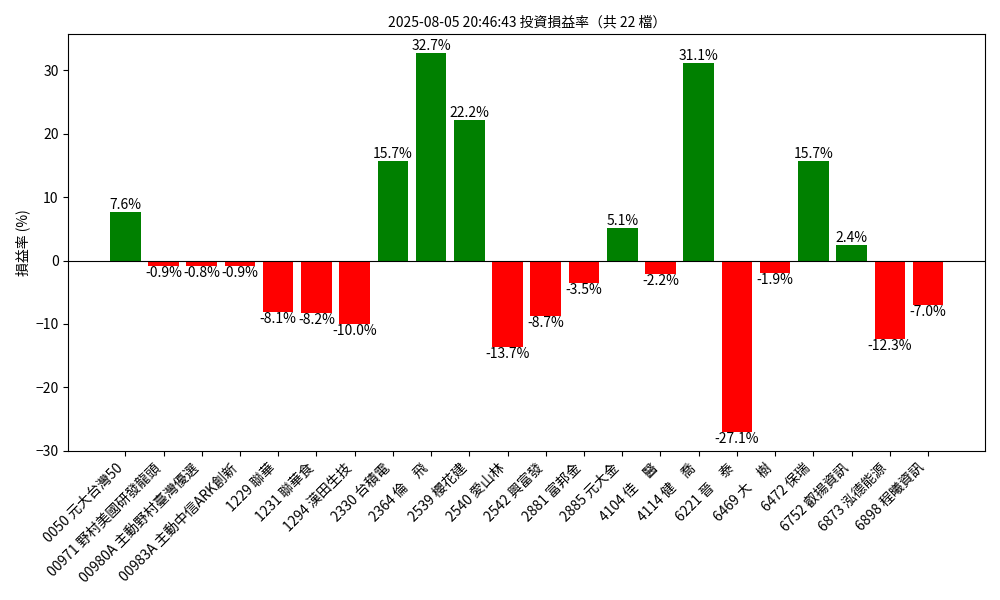
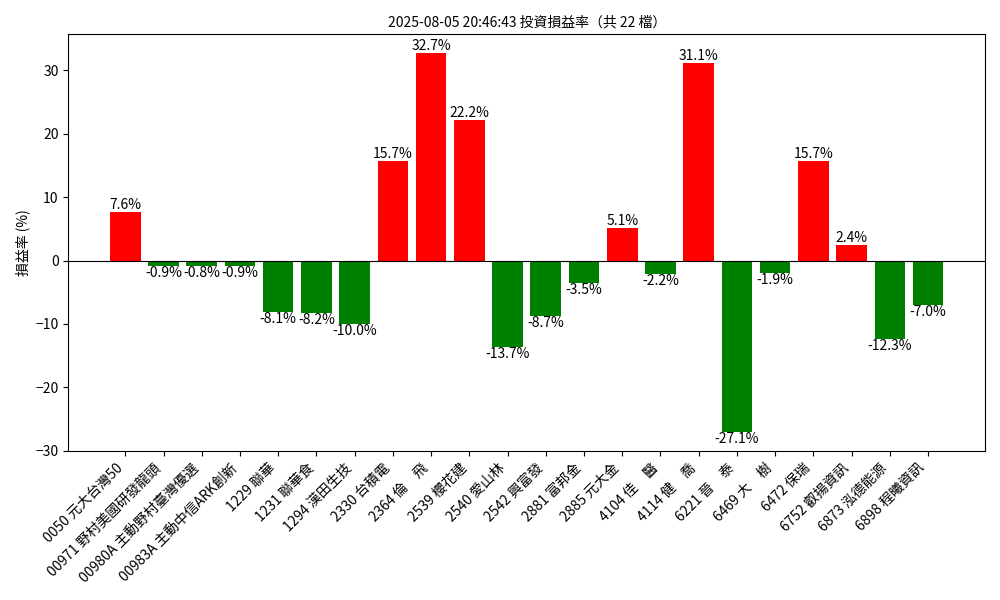
Auto-update report 2025-08-05 13:27:23

Changed region(s): [[0.093, 0.09, 0.961, 0.72]]

diff --git a/docs/投資損益分析報告.html b/docs/投資損益分析報告.html
@@ -110,7 +110,7 @@
   資料日期：2025-08-05 20:46:43
 </p>
 <p style="text-align:center; color:#666; font-size:14px; margin-top:-10px; margin-bottom:30px;">
-  程式執行時間：2025-08-05 21:01:33
+  程式執行時間：2025-08-05 21:27:22
 </p>
 <div class="cards">
   <div class="card">

diff --git a/docs/investment_report.md b/docs/investment_report.md
@@ -1,6 +1,6 @@
 # 投資損益報告
 
-📅 資料日期：2025-08-05 20:46:43　🕒 產生時間：2025-08-05 21:01:33
+📅 資料日期：2025-08-05 20:46:43　🕒 產生時間：2025-08-05 21:27:22
 
 ## 總覽
 - 💰 總投資金額：525,548 元
@@ -22,25 +22,25 @@
 
 | 商品名稱 | 股數 | 成本價 | 投資成本 | 帳面收入 | 損益 | 損益率 | 現價 | 市值 |
 |----------|------|--------|------------|------------|--------|----------|--------|------------|
-| 0050 元大台灣50 | 332.0 | 47.52 | 15,788 元 | 16,985 元 | 1,197 元 | 7.60% | 51.45 | 17,081 元 |
-| 00971 野村美國研發龍頭 | 200.0 | 14.78 | 2,958 元 | 2,932 元 | -26 元 | -0.90% | 14.77 | 2,954 元 |
-| 00980A 主動野村臺灣優選 | 250.0 | 12.16 | 3,042 元 | 3,017 元 | -25 元 | -0.80% | 12.16 | 3,040 元 |
-| 00983A 主動中信ARK創新 | 280.0 | 11.03 | 3,090 元 | 3,062 元 | -28 元 | -0.90% | 11.02 | 3,086 元 |
-| 1229 聯華 | 58.0 | 49.64 | 2,881 元 | 2,648 元 | -233 元 | -8.10% | 46.15 | 2,677 元 |
-| 1231 聯華食 | 33.0 | 155.09 | 5,121 元 | 4,699 元 | -422 元 | -8.20% | 144.0 | 4,752 元 |
-| 1294 漢田生技 | 31.0 | 85.45 | 2,651 元 | 2,387 元 | -264 元 | -10.00% | 77.9 | 2,415 元 |
-| 2330 台積電 | 120.0 | 988.63 | 118,735 元 | 137,342 元 | 18,607 元 | 15.70% | 1150.0 | 138,000 元 |
-| 2364 倫　飛 | 40.0 | 79.6 | 3,186 元 | 4,228 元 | 1,042 元 | 32.70% | 106.5 | 4,260 元 |
-| 2539 櫻花建 | 3652.0 | 54.35 | 198,650 元 | 242,767 元 | 44,117 元 | 22.20% | 66.8 | 243,954 元 |
-| 2540 愛山林 | 661.0 | 91.45 | 60,493 元 | 52,176 元 | -8,317 元 | -13.70% | 79.5 | 52,550 元 |
-| 2542 興富發 | 65.0 | 45.49 | 2,959 元 | 2,702 元 | -257 元 | -8.70% | 42.0 | 2,730 元 |
-| 2881 富邦金 | 485.0 | 86.58 | 42,026 元 | 40,562 元 | -1,464 元 | -3.50% | 84.0 | 40,740 元 |
-| 2885 元大金 | 945.0 | 30.67 | 29,006 元 | 30,471 元 | 1,465 元 | 5.10% | 32.4 | 30,618 元 |
-| 4104 佳　醫 | 70.0 | 86.6 | 6,067 元 | 5,934 元 | -133 元 | -2.20% | 85.3 | 5,971 元 |
-| 4114 健　喬 | 183.0 | 29.09 | 5,328 元 | 6,985 元 | 1,657 元 | 31.10% | 38.5 | 7,046 元 |
-| 6221 晉　泰 | 46.0 | 65.89 | 3,033 元 | 2,211 元 | -822 元 | -27.10% | 48.65 | 2,238 元 |
-| 6469 大　樹 | 36.0 | 165.5 | 5,962 元 | 5,847 元 | -115 元 | -1.90% | 164.0 | 5,904 元 |
-| 6472 保瑞 | 9.0 | 603.11 | 5,433 元 | 6,287 元 | 854 元 | 15.70% | 705.0 | 6,345 元 |
-| 6752 叡揚資訊 | 22.0 | 144.73 | 3,187 元 | 3,262 元 | 75 元 | 2.40% | 150.5 | 3,311 元 |
-| 6873 泓德能源 | 13.0 | 212.92 | 2,770 元 | 2,430 元 | -340 元 | -12.30% | 189.0 | 2,457 元 |
-| 6898 程曦資訊 | 25.0 | 126.48 | 3,182 元 | 2,959 元 | -223 元 | -7.00% | 119.5 | 2,988 元 |
+| 0050 元大台灣50 | 332.0 | 47.52 | 15,788 元 | 16,985 元 | <span style='color:green'>1,197 元</span> | <span style='color:green'>7.60%</span> | 51.45 | 17,081 元 |
+| 00971 野村美國研發龍頭 | 200.0 | 14.78 | 2,958 元 | 2,932 元 | <span style='color:red'>-26 元</span> | <span style='color:red'>-0.90%</span> | 14.77 | 2,954 元 |
+| 00980A 主動野村臺灣優選 | 250.0 | 12.16 | 3,042 元 | 3,017 元 | <span style='color:red'>-25 元</span> | <span style='color:red'>-0.80%</span> | 12.16 | 3,040 元 |
+| 00983A 主動中信ARK創新 | 280.0 | 11.03 | 3,090 元 | 3,062 元 | <span style='color:red'>-28 元</span> | <span style='color:red'>-0.90%</span> | 11.02 | 3,086 元 |
+| 1229 聯華 | 58.0 | 49.64 | 2,881 元 | 2,648 元 | <span style='color:red'>-233 元</span> | <span style='color:red'>-8.10%</span> | 46.15 | 2,677 元 |
+| 1231 聯華食 | 33.0 | 155.09 | 5,121 元 | 4,699 元 | <span style='color:red'>-422 元</span> | <span style='color:red'>-8.20%</span> | 144.0 | 4,752 元 |
+| 1294 漢田生技 | 31.0 | 85.45 | 2,651 元 | 2,387 元 | <span style='color:red'>-264 元</span> | <span style='color:red'>-10.00%</span> | 77.9 | 2,415 元 |
+| 2330 台積電 | 120.0 | 988.63 | 118,735 元 | 137,342 元 | <span style='color:green'>18,607 元</span> | <span style='color:green'>15.70%</span> | 1150.0 | 138,000 元 |
+| 2364 倫　飛 | 40.0 | 79.6 | 3,186 元 | 4,228 元 | <span style='color:green'>1,042 元</span> | <span style='color:green'>32.70%</span> | 106.5 | 4,260 元 |
+| 2539 櫻花建 | 3652.0 | 54.35 | 198,650 元 | 242,767 元 | <span style='color:green'>44,117 元</span> | <span style='color:green'>22.20%</span> | 66.8 | 243,954 元 |
+| 2540 愛山林 | 661.0 | 91.45 | 60,493 元 | 52,176 元 | <span style='color:red'>-8,317 元</span> | <span style='color:red'>-13.70%</span> | 79.5 | 52,550 元 |
+| 2542 興富發 | 65.0 | 45.49 | 2,959 元 | 2,702 元 | <span style='color:red'>-257 元</span> | <span style='color:red'>-8.70%</span> | 42.0 | 2,730 元 |
+| 2881 富邦金 | 485.0 | 86.58 | 42,026 元 | 40,562 元 | <span style='color:red'>-1,464 元</span> | <span style='color:red'>-3.50%</span> | 84.0 | 40,740 元 |
+| 2885 元大金 | 945.0 | 30.67 | 29,006 元 | 30,471 元 | <span style='color:green'>1,465 元</span> | <span style='color:green'>5.10%</span> | 32.4 | 30,618 元 |
+| 4104 佳　醫 | 70.0 | 86.6 | 6,067 元 | 5,934 元 | <span style='color:red'>-133 元</span> | <span style='color:red'>-2.20%</span> | 85.3 | 5,971 元 |
+| 4114 健　喬 | 183.0 | 29.09 | 5,328 元 | 6,985 元 | <span style='color:green'>1,657 元</span> | <span style='color:green'>31.10%</span> | 38.5 | 7,046 元 |
+| 6221 晉　泰 | 46.0 | 65.89 | 3,033 元 | 2,211 元 | <span style='color:red'>-822 元</span> | <span style='color:red'>-27.10%</span> | 48.65 | 2,238 元 |
+| 6469 大　樹 | 36.0 | 165.5 | 5,962 元 | 5,847 元 | <span style='color:red'>-115 元</span> | <span style='color:red'>-1.90%</span> | 164.0 | 5,904 元 |
+| 6472 保瑞 | 9.0 | 603.11 | 5,433 元 | 6,287 元 | <span style='color:green'>854 元</span> | <span style='color:green'>15.70%</span> | 705.0 | 6,345 元 |
+| 6752 叡揚資訊 | 22.0 | 144.73 | 3,187 元 | 3,262 元 | <span style='color:green'>75 元</span> | <span style='color:green'>2.40%</span> | 150.5 | 3,311 元 |
+| 6873 泓德能源 | 13.0 | 212.92 | 2,770 元 | 2,430 元 | <span style='color:red'>-340 元</span> | <span style='color:red'>-12.30%</span> | 189.0 | 2,457 元 |
+| 6898 程曦資訊 | 25.0 | 126.48 | 3,182 元 | 2,959 元 | <span style='color:red'>-223 元</span> | <span style='color:red'>-7.00%</span> | 119.5 | 2,988 元 |
